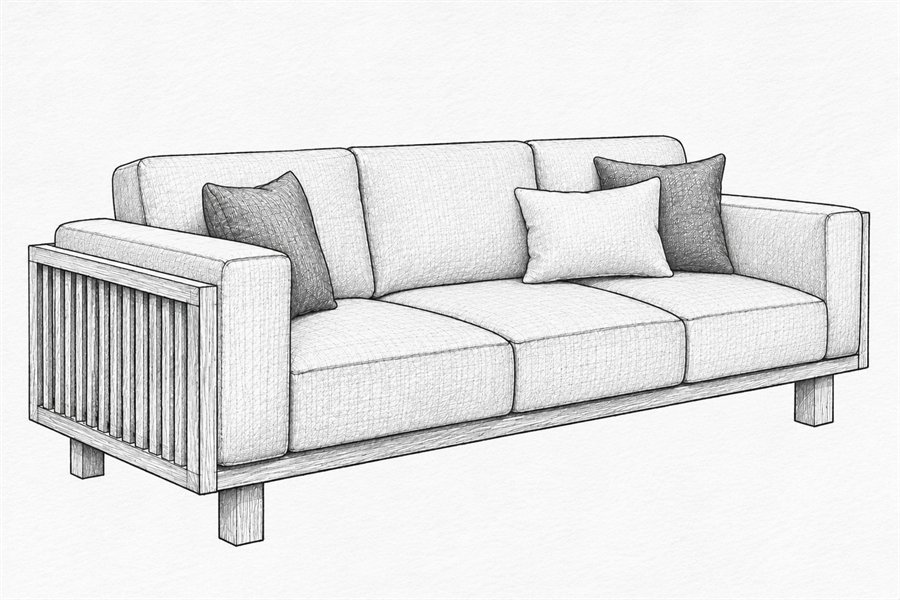
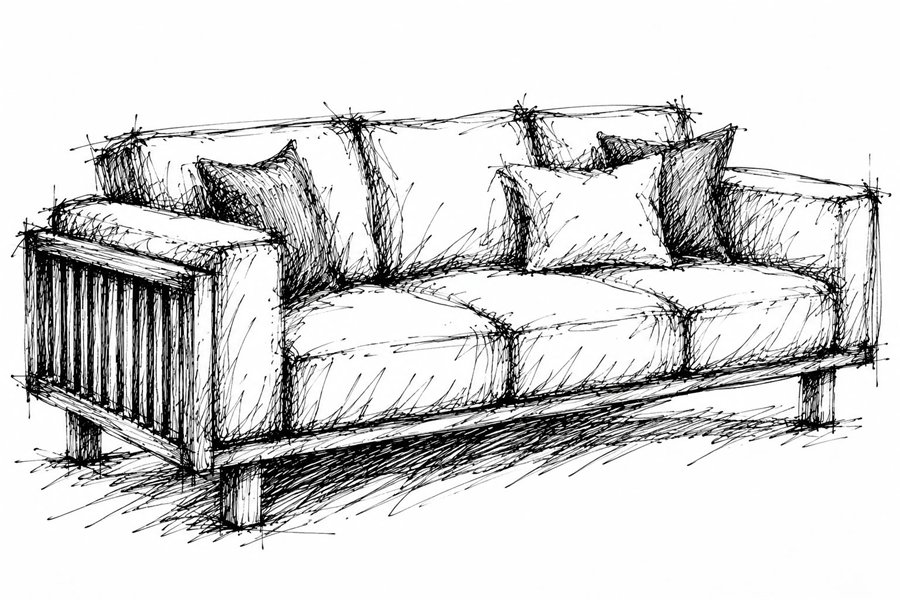
Replace the artwork on six capability sections
Swaps in the supplied renders for Custom Furniture, Intelligent Model
Review, Productivity First, Automatic View Setting and Structural
Integrity Check, and the new pen sketch for Type 3 on the Floor Plan
page. Alt text rewritten to match what each image now shows.

Structural Integrity Check is no longer a stand-in copy of another
page's render.

diff --git a/capabilities/floor-plan-to-3d-model.html b/capabilities/floor-plan-to-3d-model.html
@@ -106,7 +106,7 @@
 
           <div class="flow">
             <figure class="flow-item" data-reveal="left">
-              <img src="../assets/scribble-sketch.jpg" alt="A hand-drawn sketch of a slatted-frame sofa, worked up in pencil with no measurements" />
+              <img src="../assets/scribble-sketch.jpg" alt="A loose freehand pen sketch of a three-seat sofa with a slatted timber frame and scatter cushions, drawn with no measurements" />
               <figcaption>Scribble drawing</figcaption>
             </figure>
             <span class="flow-op flow-arrow" aria-hidden="true" data-reveal="zoom"><svg viewBox="0 0 24 24" aria-hidden="true"><path d="M4 12h15M13 6l6 6-6 6" /></svg></span>

diff --git a/capabilities/intelligent-model-review.html b/capabilities/intelligent-model-review.html
@@ -55,7 +55,7 @@
       <div class="shell">
         <div class="cap-split">
           <figure class="cap-shot" data-reveal="left">
-            <img src="../assets/cap-model-review.jpg" alt="A modelled kitchen seen down its length, with cabinetry, island and range in view for checking" />
+            <img src="../assets/cap-model-review.jpg" alt="A cutaway model of an open-plan home, showing the double-height living room, kitchen and mezzanine together in one view" />
           </figure>
           <div class="cap-points is-stacked">
             <article class="cap-point" data-reveal="right">

diff --git a/capabilities/custom-furniture.html b/capabilities/custom-furniture.html
@@ -55,7 +55,7 @@
       <div class="shell">
         <div class="cap-split">
           <figure class="cap-shot" data-reveal="left">
-            <img src="../assets/cap-custom-furniture.jpg" alt="A modelled seating set: three-seat sofa, two armchairs and a coffee table" />
+            <img src="../assets/cap-custom-furniture.jpg" alt="A modelled bedroom with a slatted feature wall, upholstered bed, matching bedside units and a full-height fitted wardrobe" />
           </figure>
           <div class="cap-points is-stacked">
             <article class="cap-point" data-reveal="right">

diff --git a/capabilities/productivity-first.html b/capabilities/productivity-first.html
@@ -55,7 +55,7 @@
       <div class="shell">
         <div class="cap-split">
           <figure class="cap-shot" data-reveal="left">
-            <img src="../assets/cap-productivity.jpg" alt="A modelled kitchen and dining space with repeated cabinetry, shelving and seating" />
+            <img src="../assets/cap-productivity.jpg" alt="A modelled open-plan living and dining space with a slatted media wall, sectional sofa and a glass-balustraded staircase" />
           </figure>
           <div class="cap-points is-stacked">
             <article class="cap-point" data-reveal="right">

diff --git a/capabilities/structural-integrity-check.html b/capabilities/structural-integrity-check.html
@@ -57,7 +57,7 @@
 
         <div class="cap-split">
           <figure class="cap-shot" data-reveal="left">
-            <img src="../assets/cap-structural-integrity.jpg" alt="A modelled house with deep cantilevers and long spans, the kind of form a structural check is run against" />
+            <img src="../assets/cap-structural-integrity.jpg" alt="A modelled open-plan living and dining space with long unbroken spans and a wide ceiling opening" />
           </figure>
           <div class="cap-points is-stacked">
             <article class="cap-point" data-reveal="right">

diff --git a/capabilities/automatic-view-setting.html b/capabilities/automatic-view-setting.html
@@ -55,7 +55,7 @@
       <div class="shell">
         <div class="cap-split">
           <figure class="cap-shot" data-reveal="left">
-            <img src="../assets/cap-view-setting.jpg" alt="An interior view of a modelled kitchen, framed ready for presentation" />
+            <img src="../assets/cap-view-setting.jpg" alt="An interior view of a modelled open-plan office, framed ready for presentation" />
           </figure>
           <div class="cap-points is-stacked">
             <article class="cap-point" data-reveal="right">
